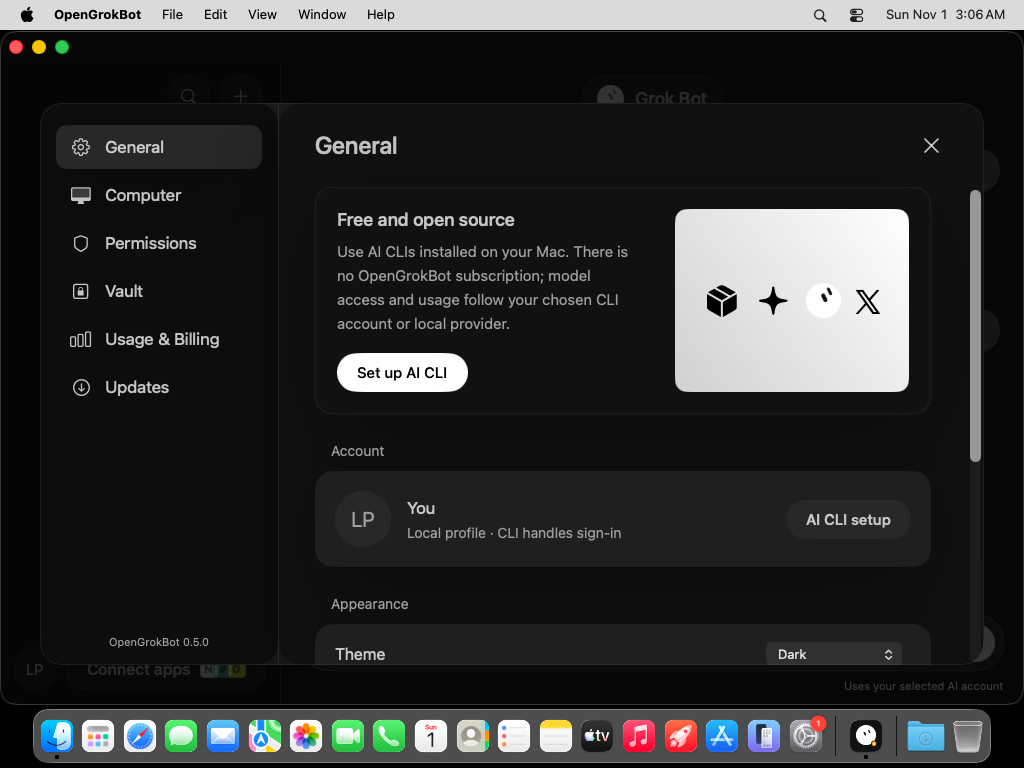
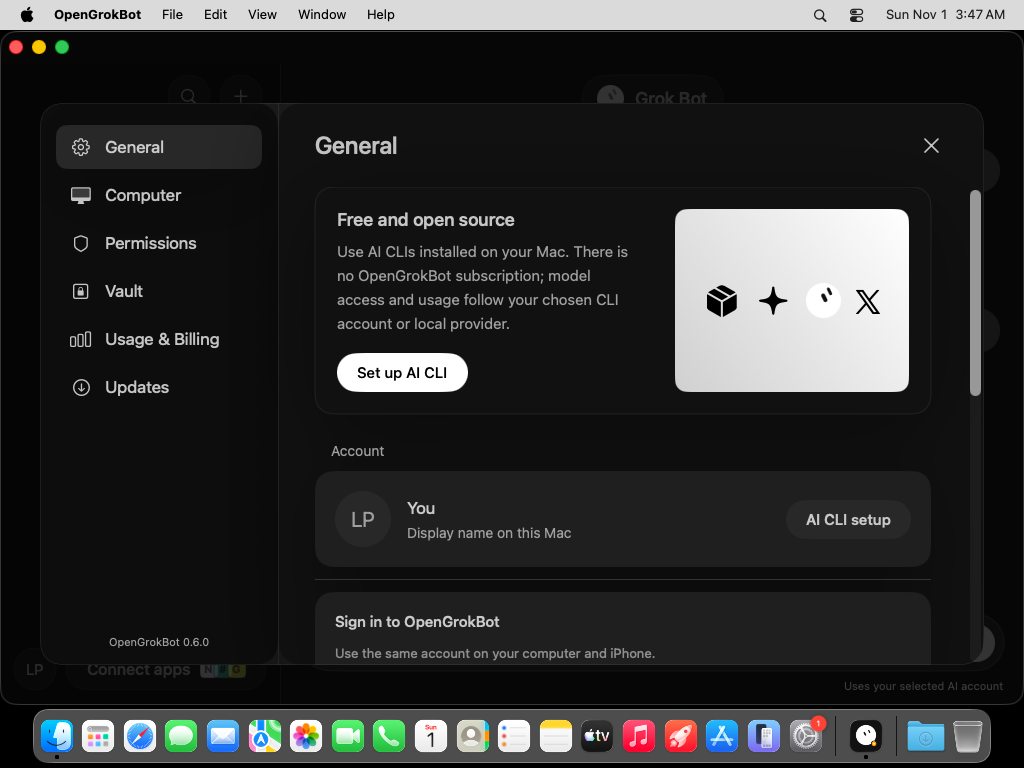
Document Supabase setup and publish verified Mac 0.6 download links [skip ci]

diff --git a/docs/DOWNLOADS.md b/docs/DOWNLOADS.md
@@ -1,24 +1,28 @@
-# Development downloads · 0.5.0
+# Development downloads · Mac/iOS 0.6.0
 
-Built from source commit `d23e49afedc5233b721ef7ae0d9ea692195e72af`. [Desktop tests and packaging](https://github.com/carboy285/opengrokbot/actions/runs/41267663346) passed.
+Runtime source commit: `bcdf5c7a5d596bead5cf38d5451ee519c6f48ba5`. [Desktop build/tests](https://github.com/carboy285/opengrokbot/actions/runs/41270461498) passed: **34 Mac unit tests, 2 actual-window UI tests, universal DMG packaging, database isolation/queue checks and the existing Windows checks**.
 
 | Download | Contents |
 | --- | --- |
-| [macOS universal installer](https://github.com/carboy285/opengrokbot/actions/runs/41267663346/artifacts/13067377768) | ZIP containing `OpenGrokBot-0.5.0-mac-universal.dmg` and SHA-256; Apple Silicon/Intel, macOS 14+ |
-| [Windows x64 installer](https://github.com/carboy285/opengrokbot/actions/runs/41267663346/artifacts/13067966765) | ZIP containing `OpenGrokBot-0.5.0-Windows-x64-Setup.exe` |
-| [Native Mac screenshots](https://github.com/carboy285/opengrokbot/actions/runs/41267663346/artifacts/13067668559) | Actual side panel, chat, setup, Composio, and settings captures |
-| [Native Mac test results](https://github.com/carboy285/opengrokbot/actions/runs/41267663346/artifacts/13067473885) | XCTest bundles: 35 unit tests and 2 UI tests passed |
-| [Xcode and Windows source](https://github.com/carboy285/opengrokbot/archive/refs/heads/codex/macos-client.zip) | Full source ZIP. Open `GrokBot.xcodeproj`; choose **GrokBot** for iOS or **GrokBotMac** for Mac |
-| [Source review](https://github.com/carboy285/opengrokbot/pull/1) | Draft PR with Apple/Windows sources, packaging, tests, and setup documentation |
+| [Mac universal installer](https://github.com/carboy285/opengrokbot/actions/runs/41270461498/artifacts/13069375751) | ZIP containing **`OpenGrokBot-0.6.0-mac-universal.dmg`** and SHA-256; Apple Silicon/Intel, macOS 14+ |
+| [Xcode source](https://github.com/carboy285/opengrokbot/archive/refs/heads/codex/macos-client.zip) | Full repository. Open **`GrokBot.xcodeproj`**, choose **GrokBot** for iOS or **GrokBotMac** for Mac |
+| [Native Mac screenshots](https://github.com/carboy285/opengrokbot/actions/runs/41270461498/artifacts/13069595125) | Actual account setup, chat, bot side panel, CLI/Composio setup and settings |
+| [Mac test results](https://github.com/carboy285/opengrokbot/actions/runs/41270461498/artifacts/13069335811) | Unit and actual-window XCTest bundles |
+| [Windows 0.5.0 installer](https://github.com/carboy285/opengrokbot/actions/runs/41270461498/artifacts/13068629042) | Existing Electron/NSIS app; **does not support the new iOS account connection yet** |
+| [Source review](https://github.com/carboy285/opengrokbot/pull/1) | Draft PR with application, backend migration, packaging and setup documentation |
 
-GitHub may require sign-in to download Actions artifacts. Artifacts have 90-day retention; source can recreate installers afterward.
+GitHub may require sign-in for Actions downloads. Artifacts have 90-day retention; the source can recreate the installers. The Mac file to open is the **`.dmg`**. The `.sha256` file is a checksum, not an installer.
 
 Mac DMG SHA-256:
 
 ```text
[2 lines of base64/hex data omitted]
 ```
 
-The app starts with one empty Grok Bot. Follow [Setup](SETUP.md) to choose an installed AI CLI and optionally connect your Composio project. Click the Bot’s name to select its active provider and specific model in the side panel. Enter sends; Shift+Enter adds a line break. Chat can create specialists, save memories, send requests to other Bots, and create groups. Only the active model answers for each Bot.
+## Connect your phone
 
-The application is free; provider and Composio costs/limits are separate. The Mac build is ad-hoc signed and not notarized; the Windows build is unsigned. See [Mac installation](MACOS.md) and [Windows installation](WINDOWS.md). The iOS target is source for your own Xcode signing and pairs to the desktop as a controller. See [Remote access](REMOTE_ACCESS.md). The [iOS simulator workflow](https://github.com/carboy285/opengrokbot/actions/runs/41267663344) passed all 27 tests, including reconnect and host-state preservation. Physical-phone roaming and live user-account Tailscale/Funnel access remain unverified. Live provider inference and Composio OAuth/tool execution require user accounts and remain unverified in this implementation session.
+Create/confirm an email account in **Mac Settings → Computer**, sign in, and turn on **Allow phone access**. Sign into the same account in the iOS app, compare its fingerprint with the Mac's phone entry, approve the phone on the Mac, and select your Mac. Supabase replaces Tailscale/pairing URLs on Apple platforms; the Mac runs all AI work. See [Remote access](REMOTE_ACCESS.md) and [iPhone installation](DEVICE_SETUP.md).
+
+Email authentication is enabled in the connected Supabase project. Its default SMTP sends only to project-team addresses; configure custom SMTP for broader signup. Google and GitHub are deferred; their buttons appear when enabled in Supabase. Live email delivery, provider OAuth and physical-device roaming remain unverified. The final [iOS simulator run](https://github.com/carboy285/opengrokbot/actions/runs/41270461442) is being checked before source delivery.
+
+The Mac package is ad-hoc signed and not notarized; the iPhone requires your own Xcode signing. The app is free. AI providers, Composio and Supabase/mail providers have their own quotas and plans. [Verification](VERIFICATION.md) distinguishes fixtures, native builds, deployed database checks and untested live account flows.

diff --git a/README.md b/README.md
@@ -34,6 +34,8 @@ In Mac **Settings → Computer → iPhone remote control**, create an email acco
 
 The phone controls the same Bots, chats, memories, active models and running tasks without saving an independent workspace. Supabase handles accounts, device discovery and encrypted temporary packets; the Mac runs all AI CLIs. Revoke individual phones on the Mac. Google/GitHub buttons appear after their providers are configured in Supabase. Default Supabase email delivery is restricted to project-team addresses; custom SMTP is needed for general signup. See the [connection guide](docs/REMOTE_ACCESS.md).
 
+![Native Mac account setup](docs/screenshots/macos-account-setup.png)
+
 The account connection is available in **Mac/iOS 0.6.0**. Windows 0.5.0 retains its earlier connection implementation and does not connect to the new iOS account controller yet.
 
 ## Bots, models and teamwork
